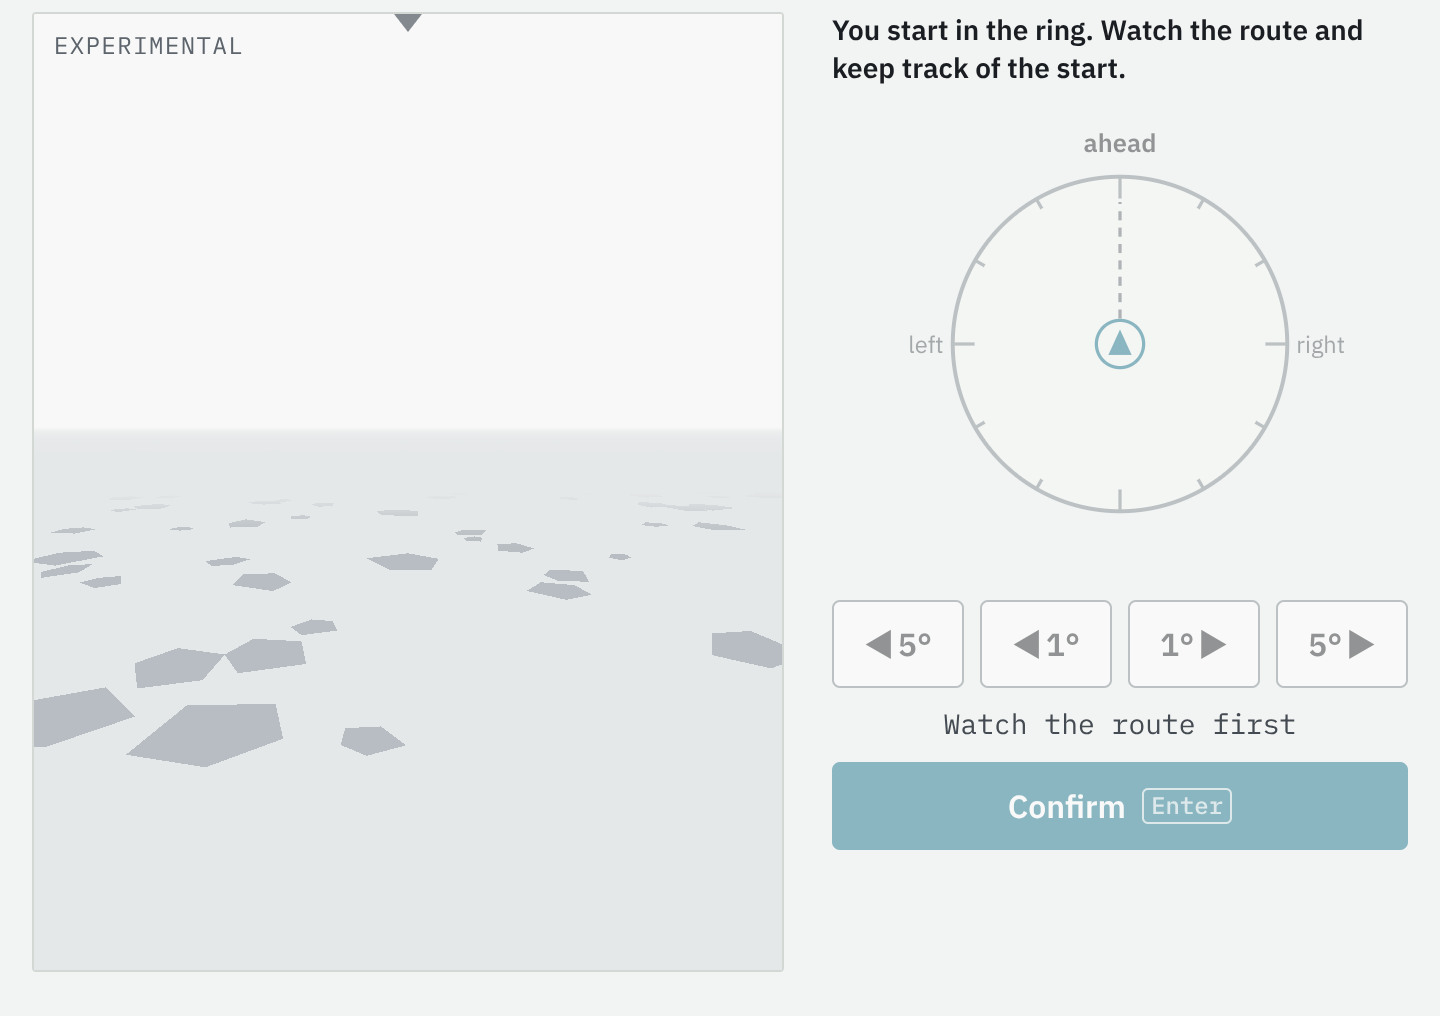
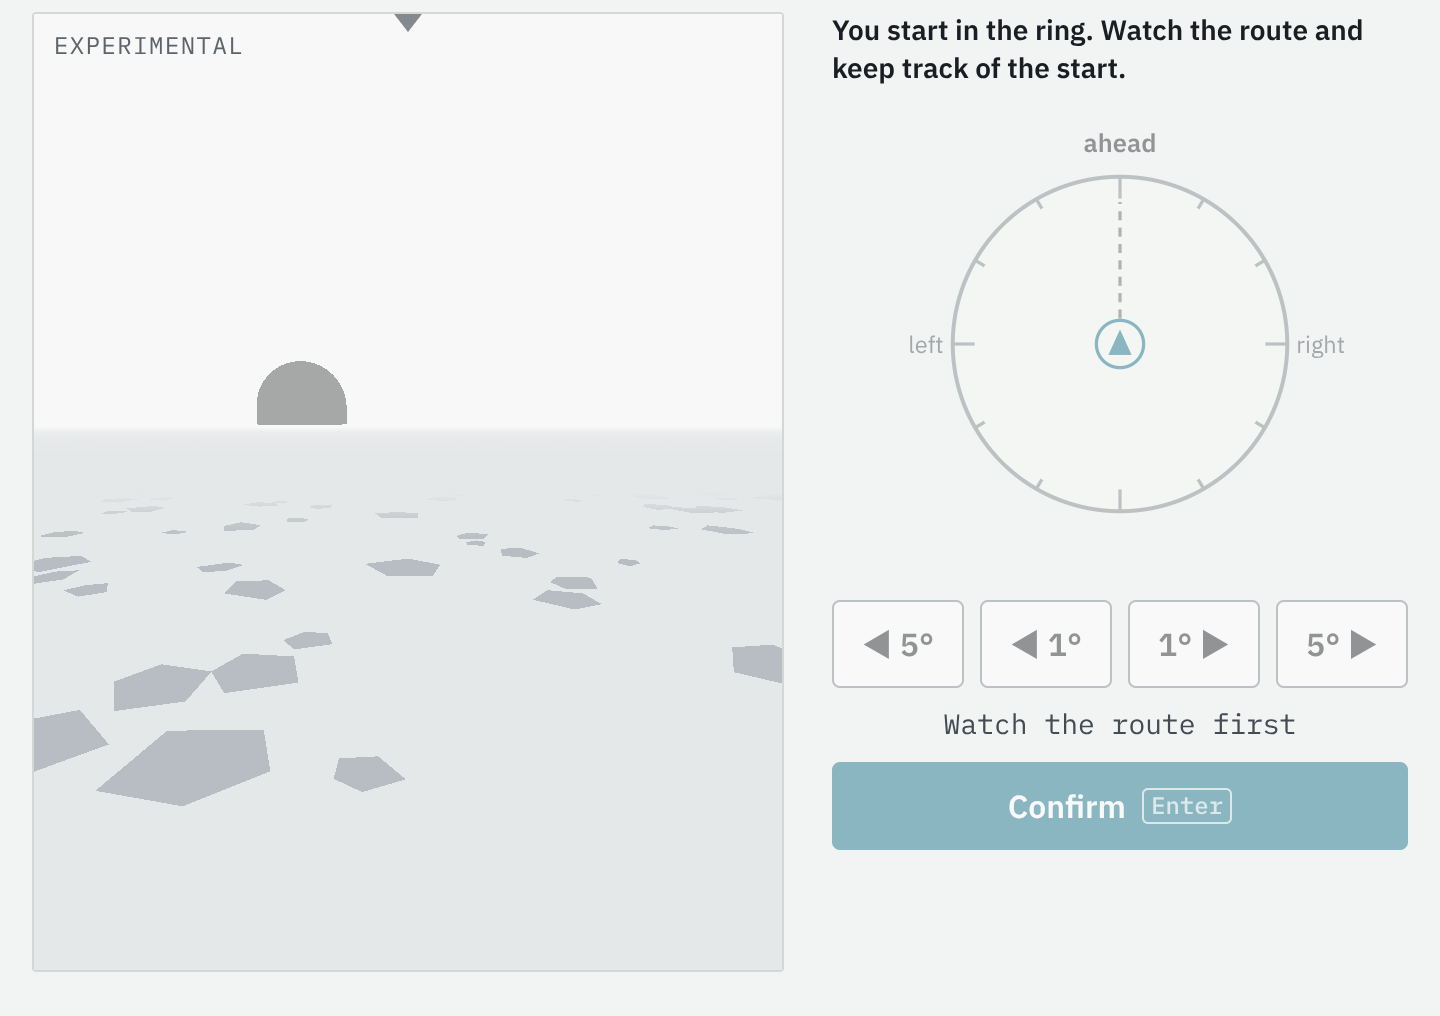
Release checklist for the owner (docs/dev/RELEASE-v1.1.md)

diff --git a/docs/guide/guide.html b/docs/guide/guide.html
@@ -285,7 +285,7 @@
         <figcaption><span class="label">Fig. 2.6</span>The session summary.</figcaption></figure>
       <div>
         <h3>The summary</h3>
-        <p>Results by exercise, compared only with your own past, level changes with the real settings, achievements earned, the week so far, and one suggested next step. Success is held near your target on purpose, so the level, not the score, shows progress. Share makes a card with the Discord link.</p>
+        <p>Results by exercise, compared only with your own past, level changes with the settings typical at each level, achievements earned, the week so far, and one suggested next step. Success is held near your target on purpose, so the level, not the score, shows progress. Share makes a card with the Discord link.</p>
       </div>
     </div>
   </div>
@@ -705,7 +705,7 @@
         </div>
         <div class="ex-text">
           <p><span class="rk">Trains</span>Navigation (NAV): keeping track of where you started as you move, with far landmarks as fixes on the easier levels. Extrinsic-dynamic. <b>Experimental.</b> It is the landmark-aided stage before Reckon.</p>
-          <p><span class="rk">How to play</span>You watch a short walk through your own eyes: straight legs, with turns on the spot between them. You start in a ring that disappears once you walk away. Then turn to face the start: drag the view sideways, drag or tap the arrow circle, or use the buttons for 5° and 1° steps (keys ← and →, Shift for 1°), and confirm. Far landmarks barely move as you walk, so, like a navigator's fix, they show how far you have turned.</p>
+          <p><span class="rk">How to play</span>You watch a short walk through your own eyes: straight legs, with turns on the spot between them. You start in a ring that disappears once you walk away. Then turn to face the start: drag the view sideways, drag or tap the arrow circle, or use the buttons for 5° and 1° steps (keys ← and →, Shift for 1°), and confirm. Far landmarks, placed where the walk shows them, barely move as you walk, so, like a navigator's fix, they show how far you have turned.</p>
           <span class="rk">Difficulty grows with</span>
           <ul class="dims">
             <li><span class="k">Route</span><span>2 to 4 legs with small (30–60°), medium (60–120°) or large (120–160°) turns, in eight steps</span></li>
@@ -772,7 +772,7 @@
       </div>
       <div>
         <h3>Touch, and comfort</h3>
-        <p>Both exercises play by touch: drag the view to turn, then fine-tune with the 1° and 5° buttons; captions sit over the view as subtitles, and held sideways the view and the controls sit side by side. Pause freezes the walk at once. The motion is gentle: Homing walks at 1.8 m/s; Reckon too on its steady level, and between 0.5 and 2.0 m/s above it, so a leg's walking time says little about its length. Turns run at 45°/s at most, with soft starts and stops. If the motion makes you feel unwell, pause or stop.</p>
+        <p>Both exercises play by touch: drag the view to turn, then fine-tune with the 1° and 5° buttons, which turn when you lift your finger, so a swipe across them scrolls; captions sit over the view as subtitles, and held sideways the view and the controls sit side by side. Pause freezes the walk at once. The motion is gentle: Homing walks at 1.8 m/s; Reckon too on its steady level, and between 0.5 and 2.0 m/s above it, so a leg's walking time says little about its length. Turns run at 45°/s at most, with soft starts and stops. If the motion makes you feel unwell, pause or stop.</p>
         <p>A trial is voided only when the walk itself was harmed: a freeze of more than a second while moving, slow frames for more than half of it, a lost 3D view, the screen changing shape during the walk or while you answer, or a pause. Homing's items changed in 1.1, so its new trials are logged as version 2.</p>
       </div>
     </div>
@@ -1084,7 +1084,7 @@
       </div>
       <div>
         <h3>Levels 1 to 100</h3>
-        <p>Your level is the difficulty you would answer right with probability g + (1 − g) × 0.75, placed on the exercise's own range: level 1 is its easiest item, level 100 its hardest. The reference is fixed, so changing your style never changes your level. Each level comes with a likely range (95 %) and the real settings at that difficulty, such as "120° turns, 10 cubes". It moves at the end of each block of 10 answers, not after every answer; block notes, summaries and bests all show this one level. Levels compare you with your own past on one exercise; they are not scores against other people.</p>
+        <p>Your level is the difficulty you would answer right with probability g + (1 − g) × 0.75, placed on the exercise's own range: level 1 is its easiest item, level 100 its hardest. The reference is fixed, so changing your style never changes your level. Each level comes with a likely range (95 %) and the settings typical of that difficulty, such as "120° turns, 10 cubes". It moves at the end of each block of 10 answers, not after every answer; block notes, summaries and bests all show this one level. Levels compare you with your own past on one exercise; they are not scores against other people.</p>
         <h3>Which item comes next</h3>
         <p>In every 10 items, 8 aim at your target, 1 is easier and 1 is a stretch. Among equally good candidates, Parallax prefers the settings and variants used least recently, and does not repeat the last three combinations while another one fits. Varying what does not decide the answer helps learning generalise <span class="cite">(Raviv et al., 2022)</span>. Where you do clearly worse than predicted on one setting, over at least 15 answers, a fifth of target items come from it: a weak spot.</p>
         <h3>Interleaving stages</h3>
@@ -1112,7 +1112,7 @@
     <div class="cols">
       <div>
         <h3>Path</h3>
-        <p>Ten stages per exercise, one per tenth of its difficulty range, practised in blocks. A new stage opens with its Watch demo and names its settings. A stage passes when all three hold: at least 10 items at the stage; a moving average of right answers (each new answer weighs 15 %) reaches 80 % above chance, which is 0.80 for open answers, 0.85 for four options and 0.90 for yes/no; and your rating predicts at least 80 % above chance on the stage. Simple moving-average rules like this nearly match model-based mastery rules <span class="cite">(Pelánek &amp; Řihák, 2018)</span>.</p>
+        <p>Ten stages per exercise, one per tenth of its difficulty range, practised in blocks. A new stage opens with its Watch demo and names the settings it goes up to; its items mix in easier ones too. A stage passes when all three hold: at least 10 items at the stage; a moving average of right answers (each new answer weighs 15 %) reaches 80 % above chance, which is 0.80 for open answers, 0.85 for four options and 0.90 for yes/no; and your rating predicts at least 80 % above chance on the stage. Simple moving-average rules like this nearly match model-based mastery rules <span class="cite">(Pelánek &amp; Řihák, 2018)</span>.</p>
         <p>Passed stages come back for a 5-item recheck after 3, 7, 14, 30 and 60 days, then every 90; a stage holds while your rating predicts at least 70 % above chance on it, or reopens. No text ever calls a skill finished.</p>
         <h3>Speed</h3>
         <p>Opens for an exercise once a Path stage is passed, or after 60 answers with a settled rating. Items come from settings you already answer at least 85 % right above chance, because the deadline is the challenge; it starts at 1.5 times your median time and adapts. Speed keeps its own timed rating. Its summary gives right answers in time per minute and a balanced integration score, which resists speed–accuracy trade-offs <span class="cite">(Liesefeld &amp; Janczyk, 2019)</span>.</p>

diff --git a/CHANGELOG.md b/CHANGELOG.md
@@ -30,12 +30,13 @@ The first update, built by the Chimera community on Discord (https://discord.gg/
   served over https, Parallax has a web manifest and icons for the home screen. Track, Homing,
   Reckon and Angles keep separate ratings for small and large screens.
 - **Homing, rebuilt for touch (version 2):** slower, smoother motion (1.8 m/s, turns at 45°/s,
-  0.4-second ramps), routes of 12 to 28 m, and touch controls (drag the view, a dial, 1° and 5°
-  buttons). Routes are chosen so that answers that need no tracking (the turns reversed, a heading
-  never updated) miss, and turning straight round or a fixed answer stays near chance wherever the
-  routes allow. A trial is voided only when the walk itself was harmed, or when the screen changes
-  shape while you answer. The strategy card's side error, there since 1.0, is fixed. Its trials are
-  logged as version 2.
+  0.4-second ramps), routes of 12 to 28 m, and touch controls (drag the view, a dial, and 1° and 5°
+  buttons that act when you lift your finger, so swipes scroll). Landmarks are placed where the
+  walk shows them, ahead along a leg wherever there is room. Routes are chosen so that answers that
+  need no tracking (the turns reversed, a heading never updated) miss, and turning straight round
+  or a fixed answer stays near chance wherever the routes allow. A trial is voided only when the
+  walk itself was harmed, or when the screen changes shape while you answer. The strategy card's
+  side error, there since 1.0, is fixed. Its trials are logged as version 2.
 - **Reckon (EX-12, experimental):** path integration without landmarks. Watch a walk across an
   empty plain, with no objects, no sun and no compass, then point home or walk home. The ground's
   marks show motion but mark no place; harder levels thin them out or make them short-lived. Above

diff --git a/docs/dev/RELEASE-v1.1.md b/docs/dev/RELEASE-v1.1.md
@@ -1,0 +1,16 @@
+# RELEASE v1.1: the owner's five-minute check
+
+What only a person can judge. Use the private preview on your phone (and a computer if handy). Reply "yes" to publish, or tell me what felt wrong.
+
+1. **Open it.** The Chimera pop-up appears; its discord.gg/chmr link opens Discord. Close it; tap Library once: it opens.
+2. **Reckon (2 min).** Library → Reckon → Watch, Try, Go. Does the walk look smooth, and is it comfortable to watch? Point home once, walk back once. Is the feedback (angle, distance, your habit) clear?
+3. **Homing on the phone.** Turn by dragging the view and with ±1° / ±5°. A swipe that starts on a button should scroll, not turn.
+4. **Knots.** Are the over/under gaps easy to see on your screen? Is the Watch clear about "your rope" and "the copy"?
+5. **One DAT-style format and a mini Section.** Try Painted Cubes or Angles, then Library → DAT-style → Mini section for a minute; end it and open the review.
+6. **DAT-style focus.** Switch it on in the Library: Today's plan should now lead with the formats and say so. Switch it off again.
+7. **The clock.** Start Today's session, pause for a minute, come back: the minutes shown should not include the pause.
+8. **Sound.** Settings → Sounds on: short tones after answers, never during a moving stimulus. Is the volume all right?
+9. **The guide.** Skim "What's new", Reckon, Knots and the DAT-style pages in docs/Parallax-Guide.pdf.
+10. **The Discord post.** Read docs/dev/DISCORD-v1.1.md (under 2,000 characters). Change anything you like before posting.
+
+When you say yes: I merge `build` into `main`, GitHub Pages updates in a minute or two, and your v1.0 players' progress carries over on their next visit.
